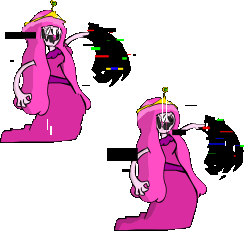
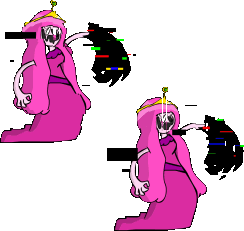
fix fish

Changed region(s): [[0.0, 0.4545, 0.2008, 0.6364], [0.2008, 0.5455, 0.2295, 0.5758]]

diff --git a/src/character/bubble.c b/src/character/bubble.c
@@ -46,47 +46,65 @@ typedef struct
 
 //bubble character definitions
 static const CharFrame char_bubble_frame[] = {
+    //gud
 	{bubble_ArcMain_Idle0, {  0,   0, 136, 143}, { 76, 143}}, //0 idle 1
-    {bubble_ArcMain_Idle0, {107,  87, 137, 144}, { 83, 144}}, //0 idle 1
-	{bubble_ArcMain_Idle1, {  0,   0, 139, 146}, { 76, 145}}, //1 idle 2
-    {bubble_ArcMain_Idle1, {113,  91, 135, 147}, { 81, 147}}, //1 idle 2
-	{bubble_ArcMain_Idle2, {  0,   0, 130, 147}, { 76, 147}}, //2 idle 3
-    {bubble_ArcMain_Idle2, {110,  98, 129, 148}, { 78, 148}}, //2 idle 3
-	{bubble_ArcMain_Idle3, {  0,   0, 137, 148}, { 75, 148}}, //3 idle 4
-    {bubble_ArcMain_Idle3, {121,  87, 129, 148}, { 76, 148}}, //3 idle 4
+    {bubble_ArcMain_Idle0, {107,  87, 137, 144}, { 86, 144}}, //0 idle 1
+	{bubble_ArcMain_Idle1, {  0,   0, 139, 146}, { 76, 146}}, //1 idle 2
+    {bubble_ArcMain_Idle1, {113,  91, 135, 147}, { 84, 147}}, //1 idle 2
+	{bubble_ArcMain_Idle2, {  0,   0, 130, 147}, { 77, 147}}, //2 idle 3
+    {bubble_ArcMain_Idle2, {110,  98, 129, 148}, { 78, 147}}, //2 idle 3
+	{bubble_ArcMain_Idle3, {  0,   0, 137, 148}, { 75, 147}}, //3 idle 4
+    {bubble_ArcMain_Idle3, {121,  87, 129, 148}, { 76, 147}}, //3 idle 4
 
 	{bubble_ArcMain_Left0, {  0,   0,  78, 154}, { 76, 143}}, //6 left 1
 	{bubble_ArcMain_Left0, { 78,   0, 110, 153}, { 76, 143}}, //7 left 2
     {bubble_ArcMain_Left1, {  0,   0, 111, 153}, { 76, 143}}, //6 left 1
 	{bubble_ArcMain_Left1, {111,   0, 100, 153}, { 76, 143}}, //7 left 2
 	
-	{bubble_ArcMain_Down0, {  0,   0, 211, 121}, { 76, 143}}, //8 down 1
-    {bubble_ArcMain_Down0, {  0, 121, 178, 135}, { 76, 143}}, //8 down 1
-    {bubble_ArcMain_Down1, {  0,   0, 182, 138}, { 76, 143}}, //8 down 1
-    {bubble_ArcMain_Down2, {  0,   0, 178, 139}, { 76, 143}}, //8 down 1
+    //gud
+	{bubble_ArcMain_Down0, {  0,   0, 211, 121}, { 76, 118}}, //8 down 1
+    {bubble_ArcMain_Down0, {  0, 121, 178, 135}, { 76, 130}}, //8 down 1
+    {bubble_ArcMain_Down1, {  0,   0, 182, 138}, { 76, 132}}, //8 down 1
+    {bubble_ArcMain_Down2, {  0,   0, 178, 139}, { 76, 135}}, //8 down 1
 	
-	{bubble_ArcMain_Up0, {  0,   0,   0,   0}, { 76, 143}}, //10 up 1
-	{bubble_ArcMain_Up0, {  0,   0,   0,   0}, { 76, 143}}, //11 up 2
-    {bubble_ArcMain_Up1, {  0,   0,   0,   0}, { 76, 143}}, //10 up 1
-	{bubble_ArcMain_Up1, {  0,   0,   0,   0}, { 76, 143}}, //11 up 2
+	{bubble_ArcMain_Up0, {  0,   0, 126, 170}, { 76, 143}}, //10 up 1
+	{bubble_ArcMain_Up0, {126,   0, 124, 170}, { 76, 143}}, //11 up 2
+    {bubble_ArcMain_Up1, {  0,   0, 121, 158}, { 76, 143}}, //10 up 1
+	{bubble_ArcMain_Up1, {121,   0, 123, 158}, { 76, 143}}, //11 up 2
 	
-	{bubble_ArcMain_Right0, {  0,   0,   0,   0}, { 76, 143}}, //12 right 1
-	{bubble_ArcMain_Right0, {  0,   0,   0,   0}, { 76, 143}}, //13 right 2
-    {bubble_ArcMain_Right1, {  0,   0,   0,   0}, { 76, 143}}, //12 right 1
-	{bubble_ArcMain_Right1, {  0,   0,   0,   0}, { 76, 143}}, //13 right 2
-};
+    //gud
+	{bubble_ArcMain_Right0, {  0,   0, 135, 144}, { 76, 143}}, //12 right 1 
+	{bubble_ArcMain_Right0, {135,   0,  97, 144}, { 76, 143}}, //13 right 2
+    {bubble_ArcMain_Right1, {  0,   0,  96, 144}, { 76, 143}}, //12 right 1
+	{bubble_ArcMain_Right1, { 96,   0, 108, 144}, { 76, 143}}, //13 right 2
+};  
 
 static const Animation char_bubble_anim[CharAnim_Max] = {
 	{2, (const u8[]){ 0, 1, 2, 3, 4, 5, 6, 7, ASCR_BACK, 0}}, //CharAnim_Idle
-	{2, (const u8[]){ 8, 9, 10, 11, ASCR_BACK, 0}},         //CharAnim_Left
+	{1, (const u8[]){ 8, 9, 10, 11, ASCR_BACK, 0}},         //CharAnim_Left
 	{0, (const u8[]){ASCR_CHGANI, CharAnim_Idle}},   //CharAnim_LeftAlt
-	{2, (const u8[]){ 12, 13, 14, 15, ASCR_BACK, 0}},         //CharAnim_Down
+	{1, (const u8[]){ 12, 13, 14, 15, ASCR_BACK, 0}},         //CharAnim_Down
 	{0, (const u8[]){ASCR_CHGANI, CharAnim_Idle}},   //CharAnim_DownAlt
-	{2, (const u8[]){ 16, 17, 18, 19, ASCR_BACK, 0}},         //CharAnim_Up
+	{1, (const u8[]){ 16, 17, 18, 19, ASCR_BACK, 0}},         //CharAnim_Up
 	{0, (const u8[]){ASCR_CHGANI, CharAnim_Idle}},   //CharAnim_UpAlt
-	{2, (const u8[]){ 20, 21, 22, 23, ASCR_BACK, 0}},         //CharAnim_Right
+	{1, (const u8[]){ 20, 21, 22, 23, ASCR_BACK, 0}},         //CharAnim_Right
 	{0, (const u8[]){ASCR_CHGANI, CharAnim_Idle}},   //CharAnim_RightAlt
 };
+
+static void DrawBubble(Character *this, Gfx_Tex *tex, const CharFrame *cframe, fixed_t parallax)
+{
+	//Draw character
+	fixed_t x = this->x - FIXED_MUL(stage.camera.x, parallax) - FIXED_DEC(cframe->off[0],1);
+	fixed_t y = this->y - FIXED_MUL(stage.camera.y, parallax) - FIXED_DEC(cframe->off[1],1);
+	
+	RECT src = {cframe->src[0], cframe->src[1], cframe->src[2], cframe->src[3]};
+	RECT_FIXED dst = {x, y, (src.w + 55) << FIXED_SHIFT, (src.h + 32) << FIXED_SHIFT};
+	Stage_DrawTex(tex, &src, &dst, stage.camera.bzoom);
+}
+void Bubble_Draw(Character *this, Gfx_Tex *tex, const CharFrame *cframe)
+{
+	DrawBubble(this, tex, cframe, FIXED_UNIT);
+}
 
 //bubble character functions
 void Char_bubble_SetFrame(void *user, u8 frame)
@@ -113,7 +131,7 @@ void Char_bubble_Tick(Character *character)
 	
 	//Animate and draw
 	Animatable_Animate(&character->animatable, (void*)this, Char_bubble_SetFrame);
-	Character_Draw(character, &this->tex, &char_bubble_frame[this->frame]);
+	Bubble_Draw(character, &this->tex, &char_bubble_frame[this->frame]);
 }
 
 

diff --git a/src/stagedef_disc1.h b/src/stagedef_disc1.h
@@ -190,7 +190,7 @@
 	{ //StageId_4_2 (Gummy-Substance)
 		//Characters
 		{Char_BF_New,     FIXED_DEC(56 + 20,1),   FIXED_DEC(85 + 40,1)},
-		{Char_bubble_New, FIXED_DEC(-105 + 30,1),   FIXED_DEC(85 + 40,1)},
+		{Char_bubble_New, FIXED_DEC(-105 + 30,1),   FIXED_DEC(80- 85 + 40,1)},
 		{NULL},
 		{NULL},
 		

diff --git a/src/stage.c b/src/stage.c
@@ -24,7 +24,7 @@
 
 //Stage constants
 //#define STAGE_NOHUD //Disable the HUD
-//#define STAGE_FREECAM //Freecam
+#define STAGE_FREECAM //Freecam
 
 static int note_x[8] = {
 	//BF

diff --git a/src/stage.h b/src/stage.h
@@ -254,7 +254,7 @@ typedef struct
 
     u8 hudangle; 
 	int fade;
-	s16 song_step;
+	int song_step;
 
 	s16 botplay;
 	
